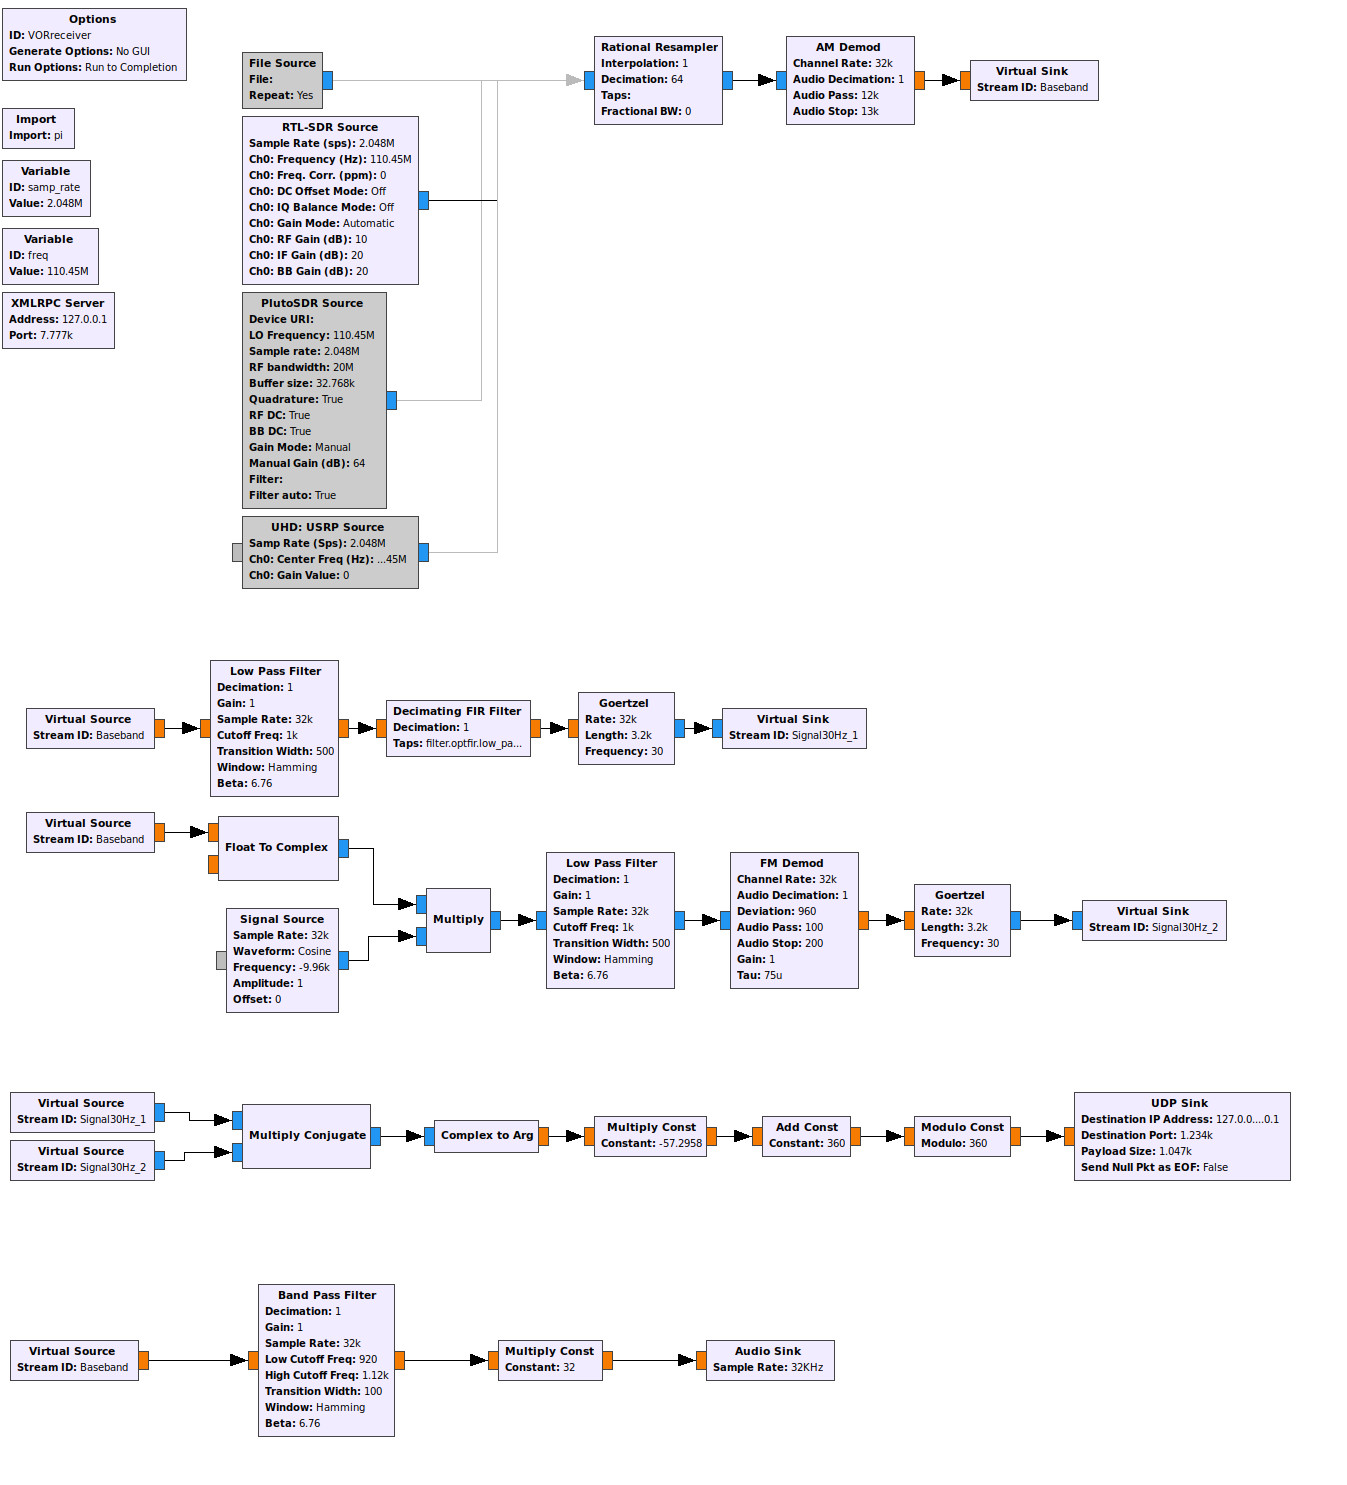
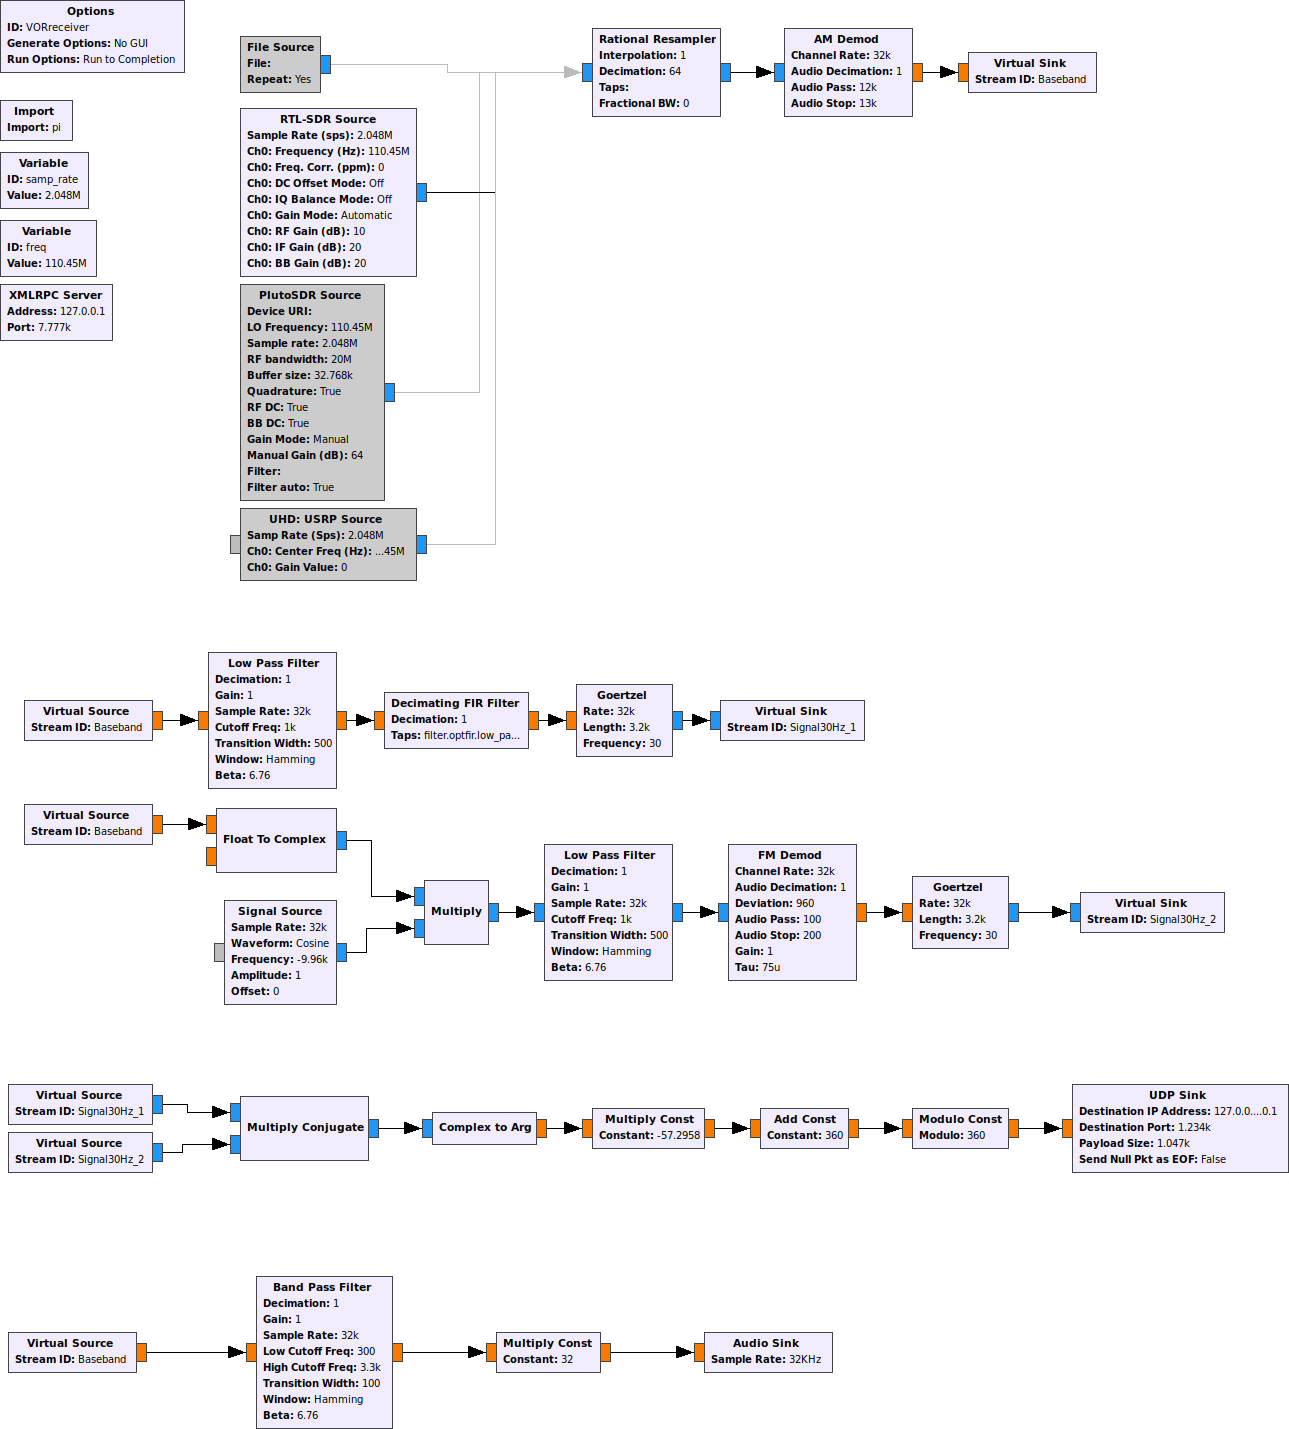
initial release

diff --git a/VORreceiver.py b/VORreceiver.py
@@ -3,7 +3,7 @@
 ##################################################
 # GNU Radio Python Flow Graph
 # Title: Vorreceiver
-# Generated: Mon Mar 29 14:04:40 2021
+# Generated: Wed Mar 31 08:12:04 2021
 ##################################################
 
 
@@ -81,7 +81,7 @@ class VORreceiver(gr.top_block):
         self.blocks_complex_to_arg_0 = blocks.complex_to_arg(1)
         self.blocks_add_const_vxx_1 = blocks.add_const_vff((360, ))
         self.band_pass_filter_0 = filter.fir_filter_fff(1, firdes.band_pass(
-        	1, samp_rate/64, 920, 1120, 100, firdes.WIN_HAMMING, 6.76))
+        	1, samp_rate/64, 300, 3300, 100, firdes.WIN_HAMMING, 6.76))
         self.audio_sink_0_0 = audio.sink(32000, '', False)
         self.analog_sig_source_x_0 = analog.sig_source_c(samp_rate/64, analog.GR_COS_WAVE, -9960, 1, 0)
         self.analog_fm_demod_cf_0 = analog.fm_demod_cf(
@@ -99,8 +99,6 @@ class VORreceiver(gr.top_block):
         	audio_pass=12000,
         	audio_stop=13000,
         )
-
-
 
         ##################################################
         # Connections
@@ -136,7 +134,7 @@ class VORreceiver(gr.top_block):
         self.low_pass_filter_0_1.set_taps(firdes.low_pass(1, self.samp_rate/64, 1000, 500, firdes.WIN_HAMMING, 6.76))
         self.low_pass_filter_0.set_taps(firdes.low_pass(1, self.samp_rate/64, 1000, 500, firdes.WIN_HAMMING, 6.76))
         self.fir_filter_xxx_0.set_taps((filter.optfir.low_pass(1, self.samp_rate/64, 100, 200, 0.1,  60)))
-        self.band_pass_filter_0.set_taps(firdes.band_pass(1, self.samp_rate/64, 920, 1120, 100, firdes.WIN_HAMMING, 6.76))
+        self.band_pass_filter_0.set_taps(firdes.band_pass(1, self.samp_rate/64, 300, 3300, 100, firdes.WIN_HAMMING, 6.76))
         self.analog_sig_source_x_0.set_sampling_freq(self.samp_rate/64)
 
     def get_freq(self):
